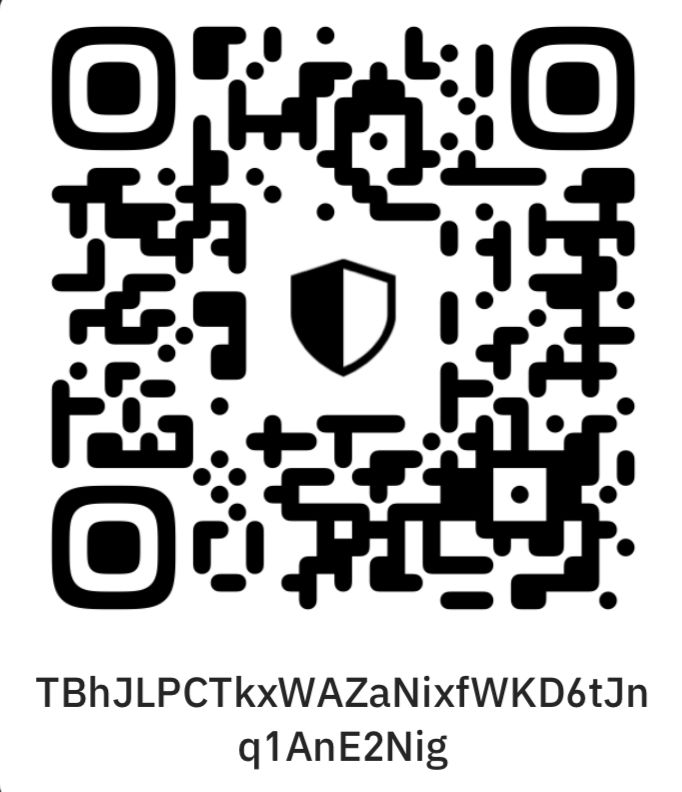
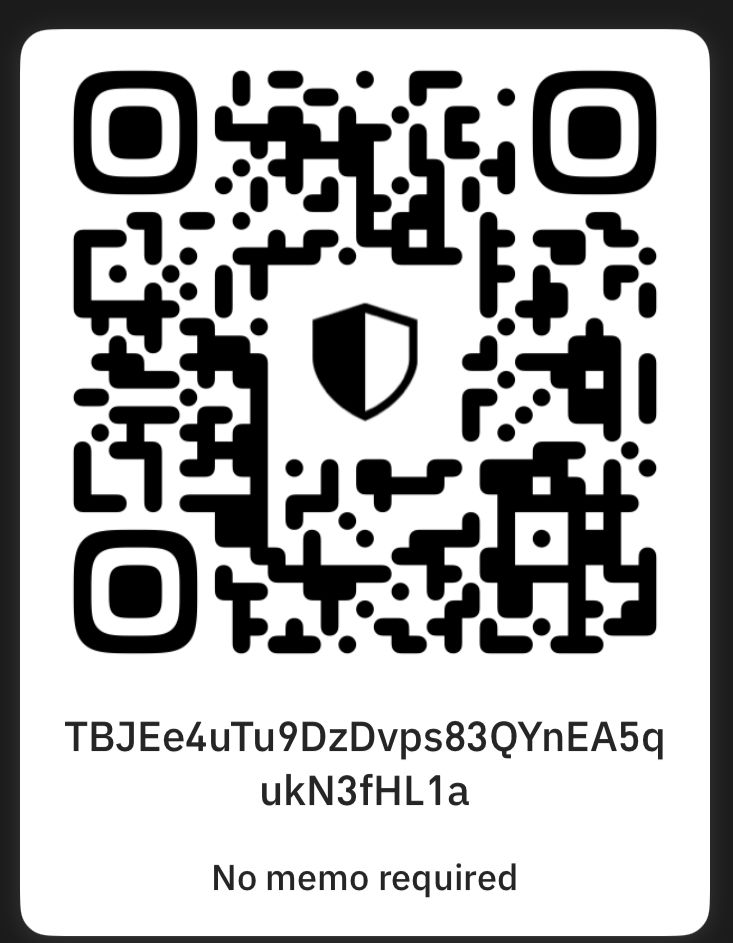
Qr image changed

diff --git a/src/pages/Deposit.js b/src/pages/Deposit.js
@@ -9,7 +9,7 @@ import trx from '../Assets/trx.png';
 const paymentData = {
   usdt: {
     label: 'USDT (TRC20)',
-    walletAddress: 'TMBSY4QSJthDGVKkGmNwsaMChmSBf6g8sL',
+    walletAddress: 'TBJEe4uTu9DzDvps83QYnEA5qukN3fHL1a',
     network: 'TRC20',
     icon: usdt,
     description: 'Fast & low fee TRC20 network.',
